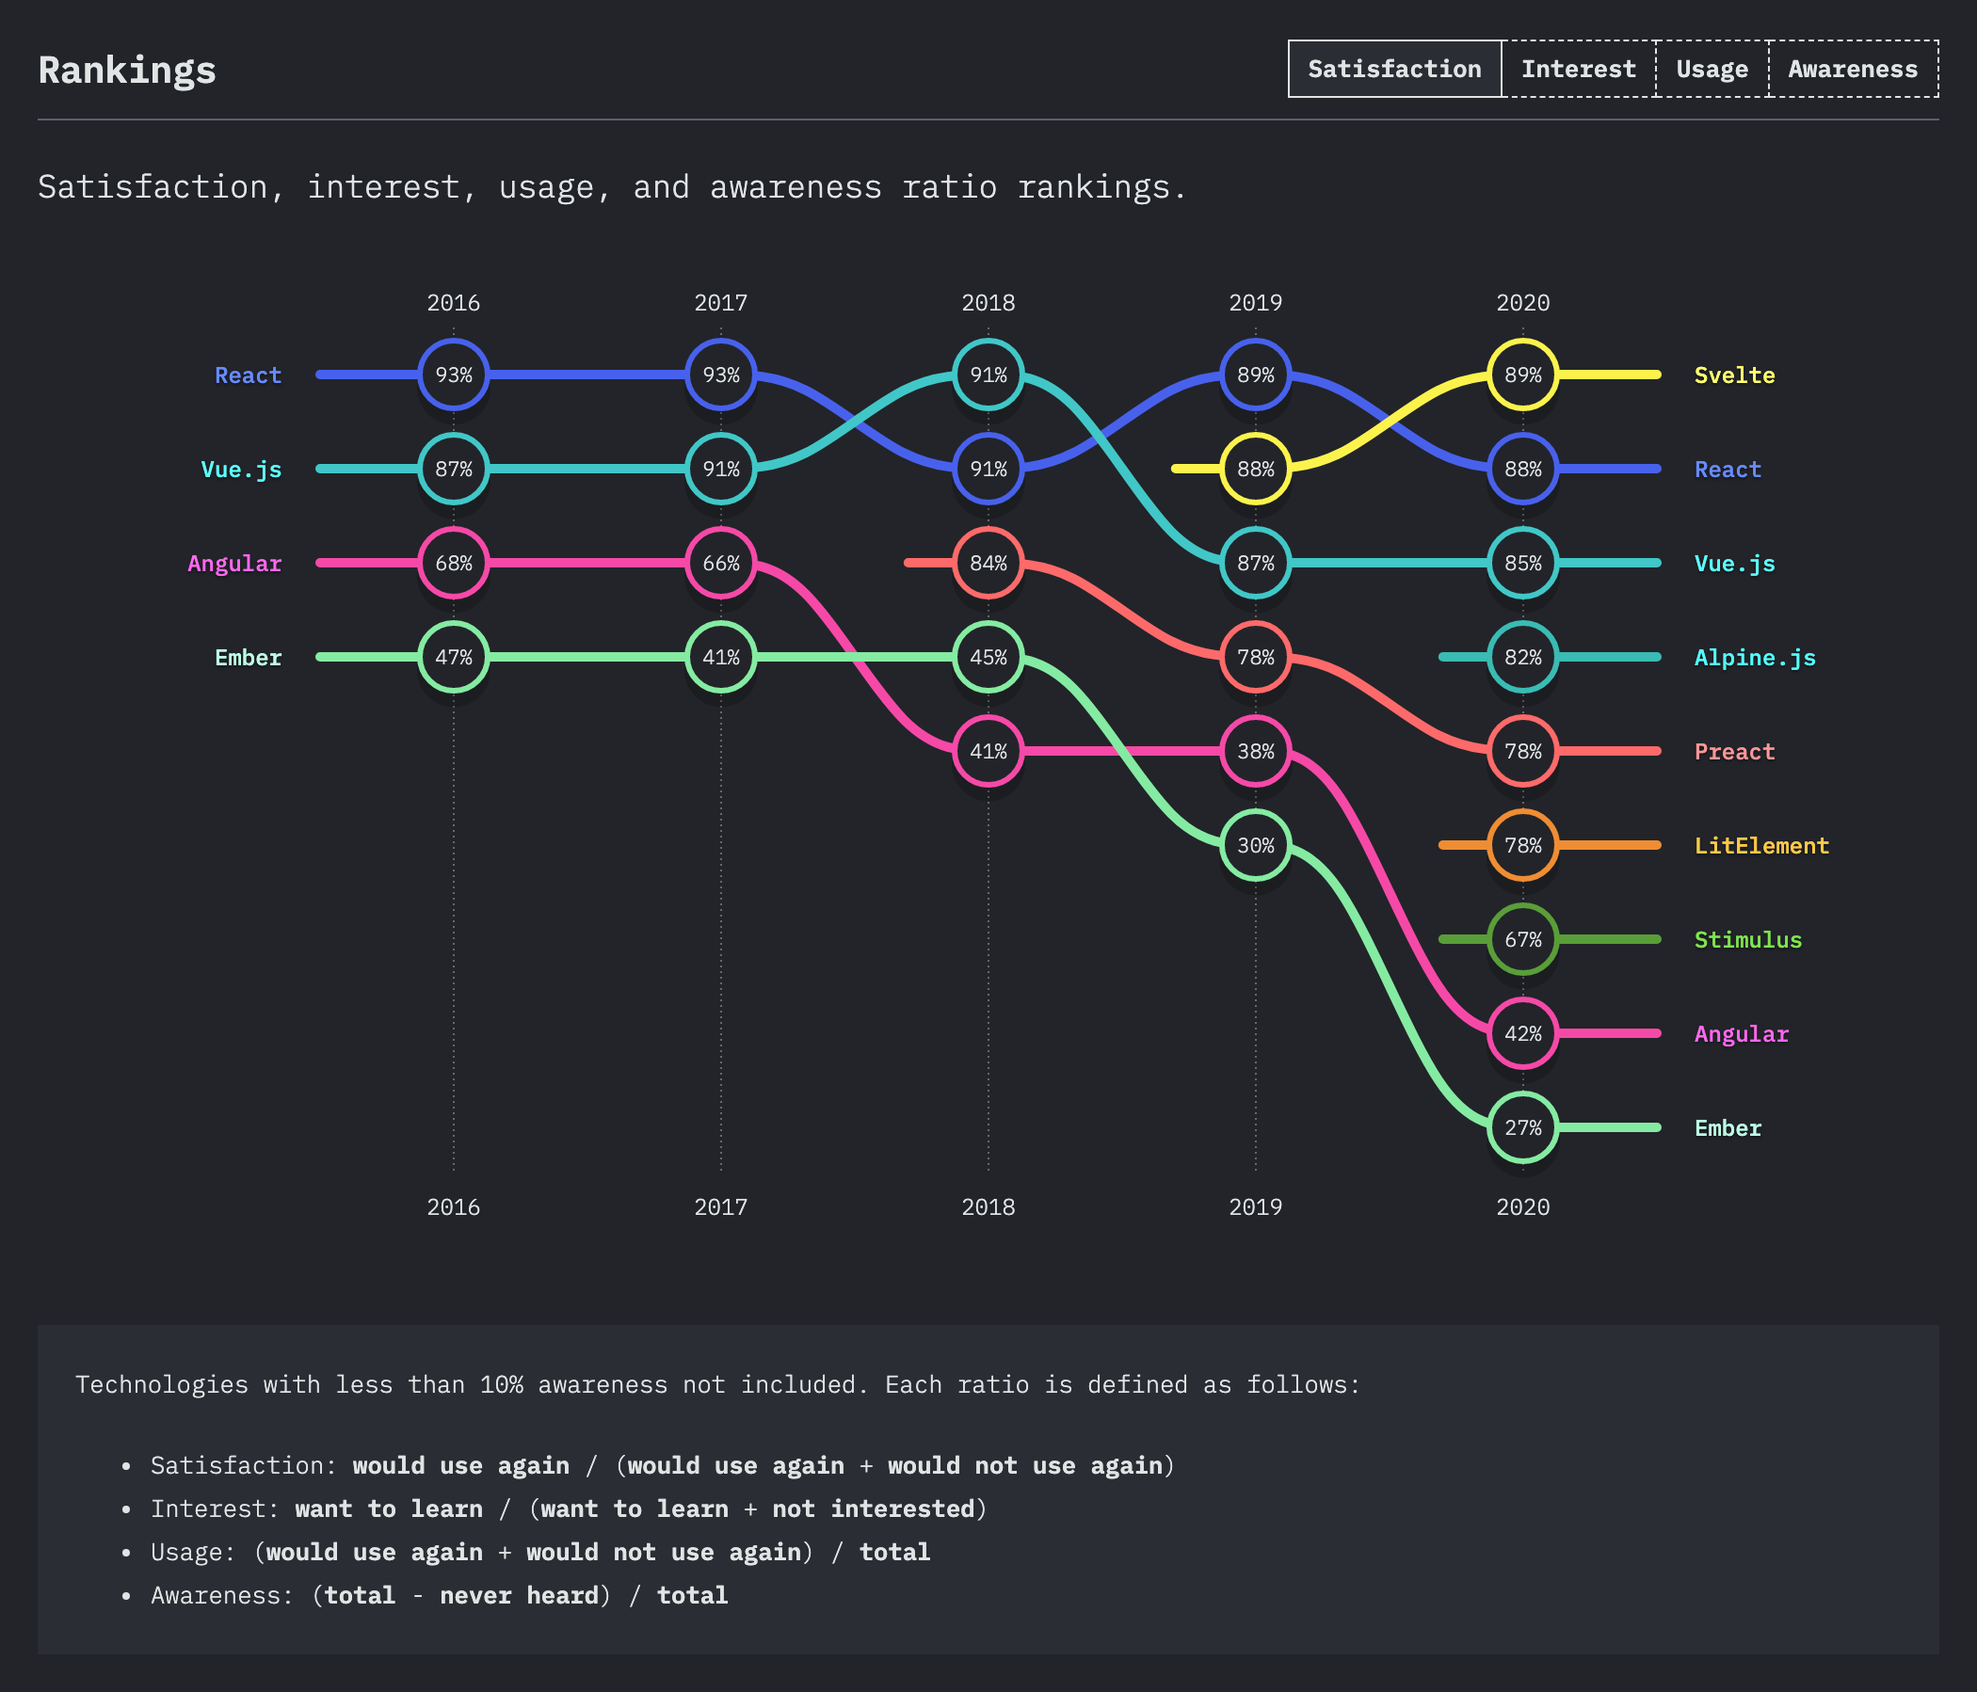
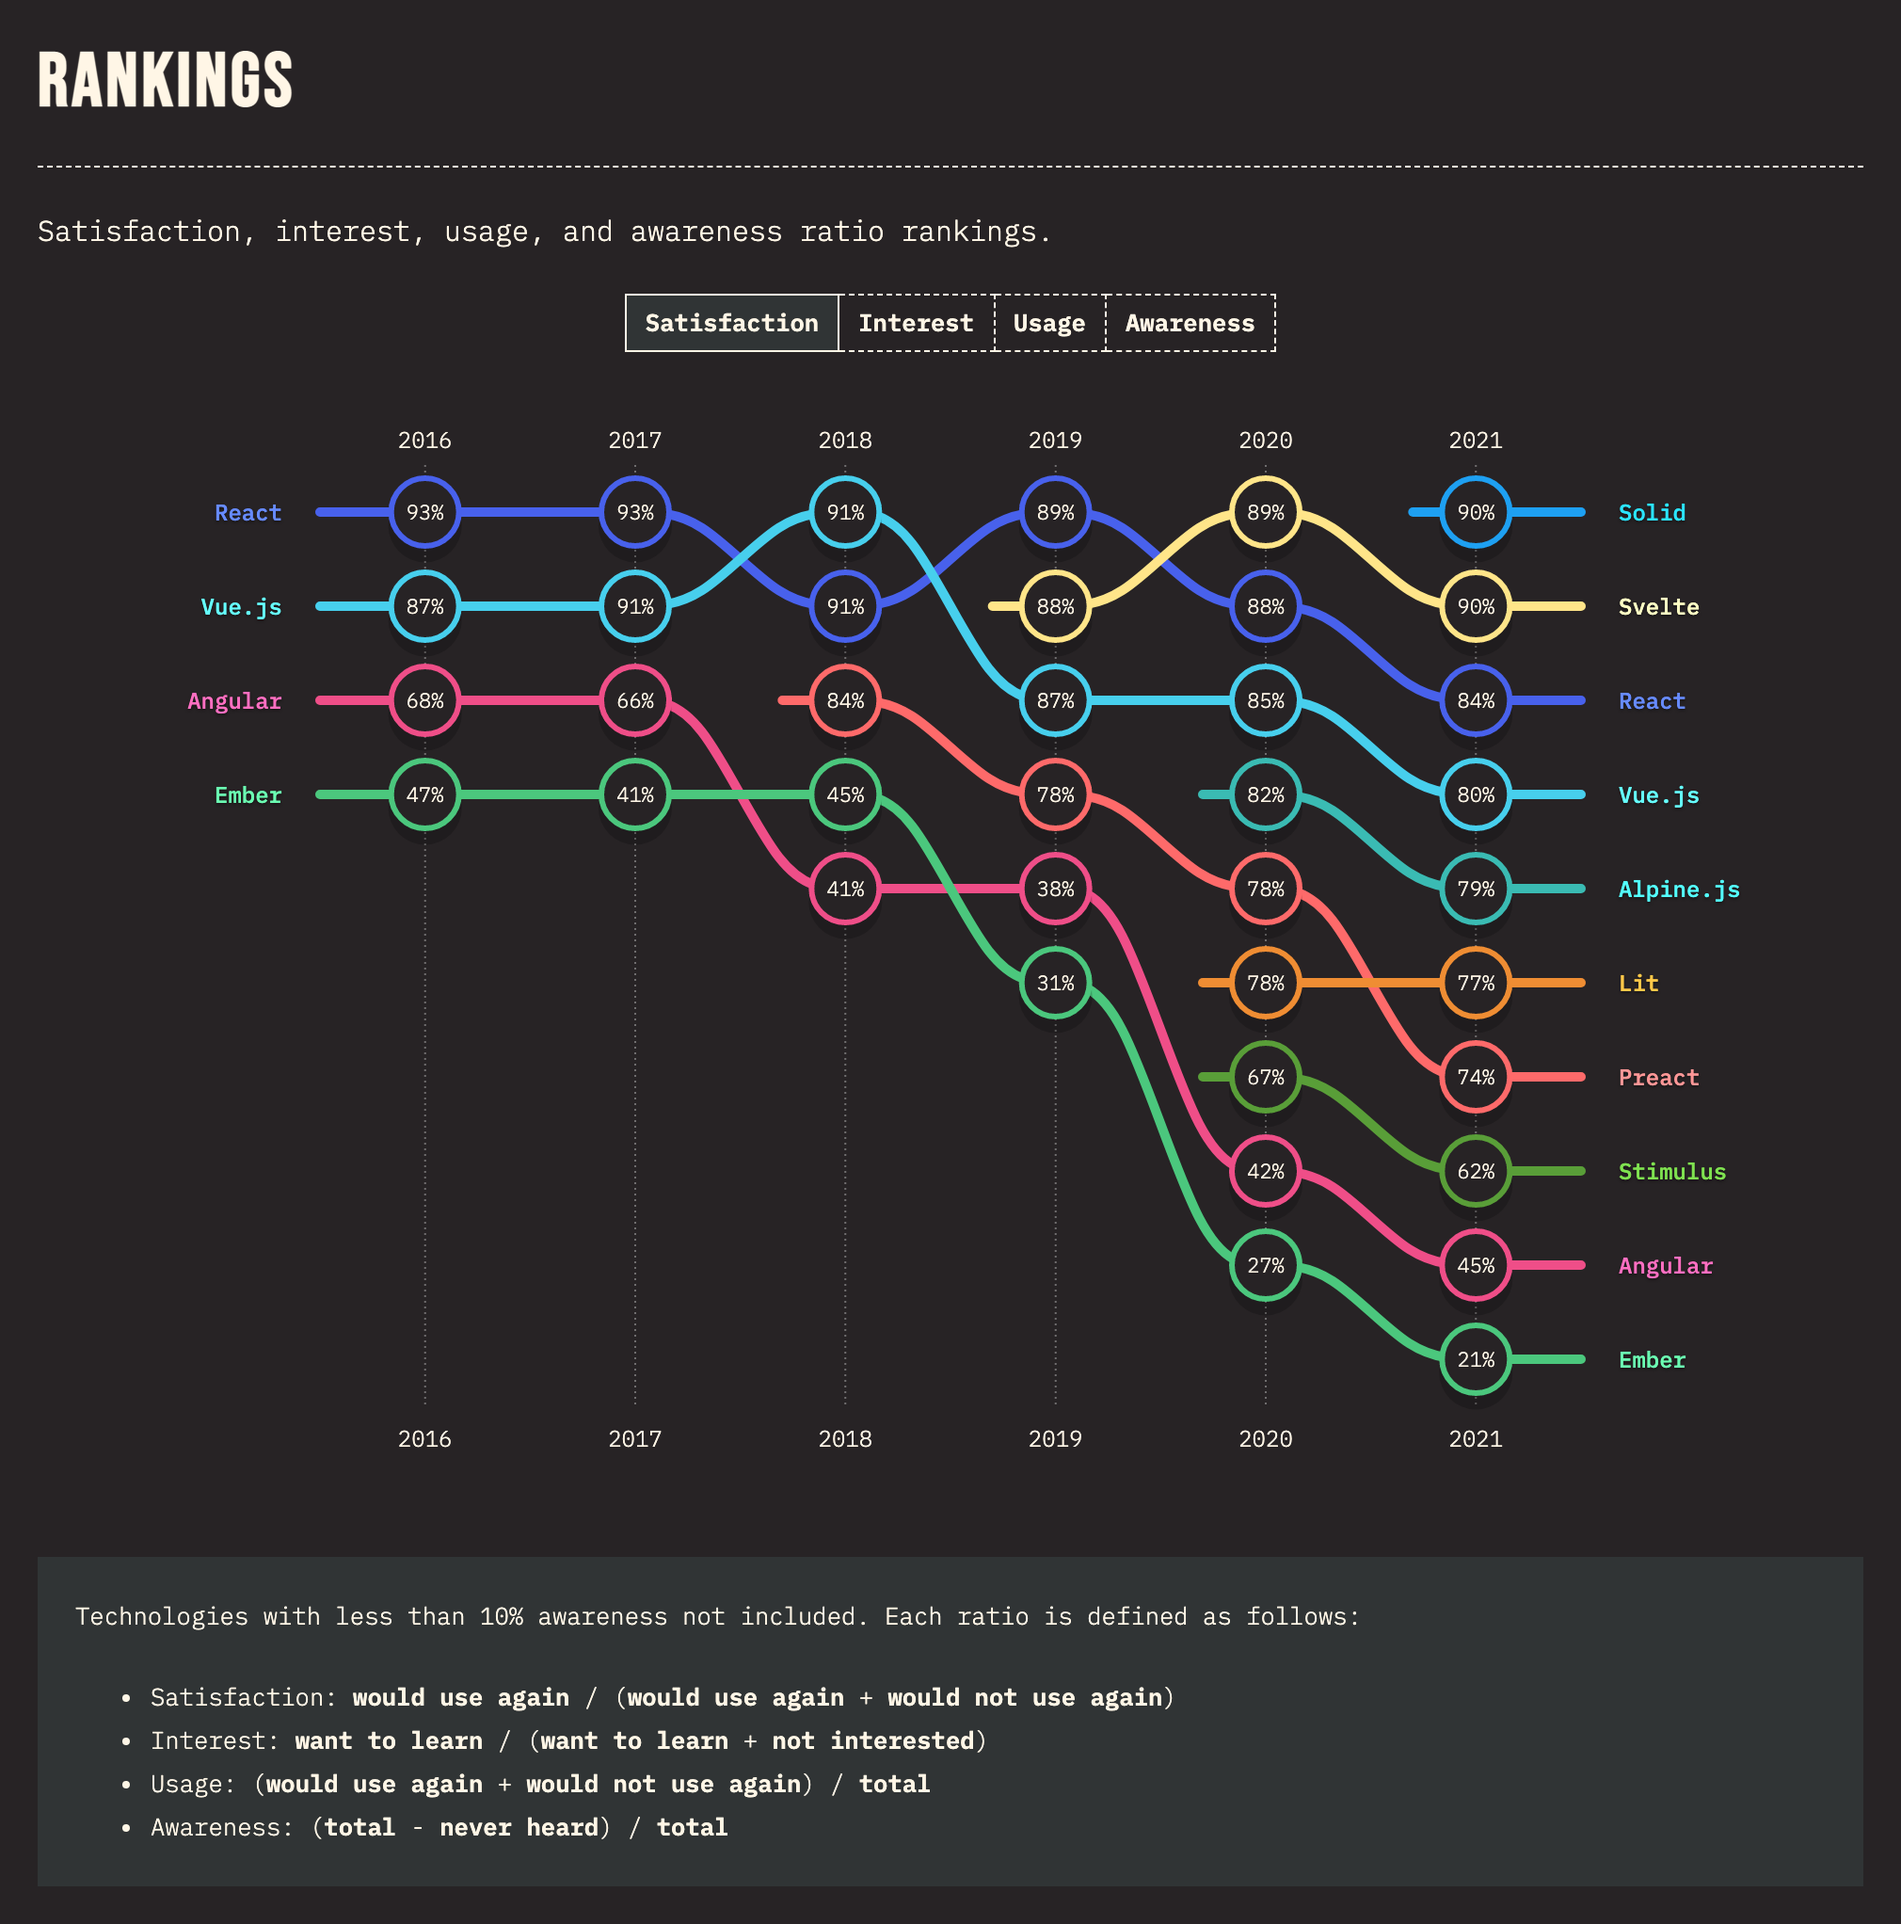
Update info of state of js 2021

diff --git a/README.md b/README.md
@@ -118,10 +118,10 @@ Other alternatives:
 Comparisons:
 
 <details open>
-<summary>State of JS 2020</summary>
+<summary>State of JS 2021</summary>
 
 ![front_end_frameworks](assets/front_end_frameworks_experience_ranking.png)
-_Data from [StateOfJS 2020](https://2020.stateofjs.com/en-US/technologies/front-end-frameworks/)_
+_Data from [StateOfJS 2021](https://2021.stateofjs.com/en-US/libraries/front-end-frameworks/#front_end_frameworks_experience_ranking)_
 
 </details>
 
